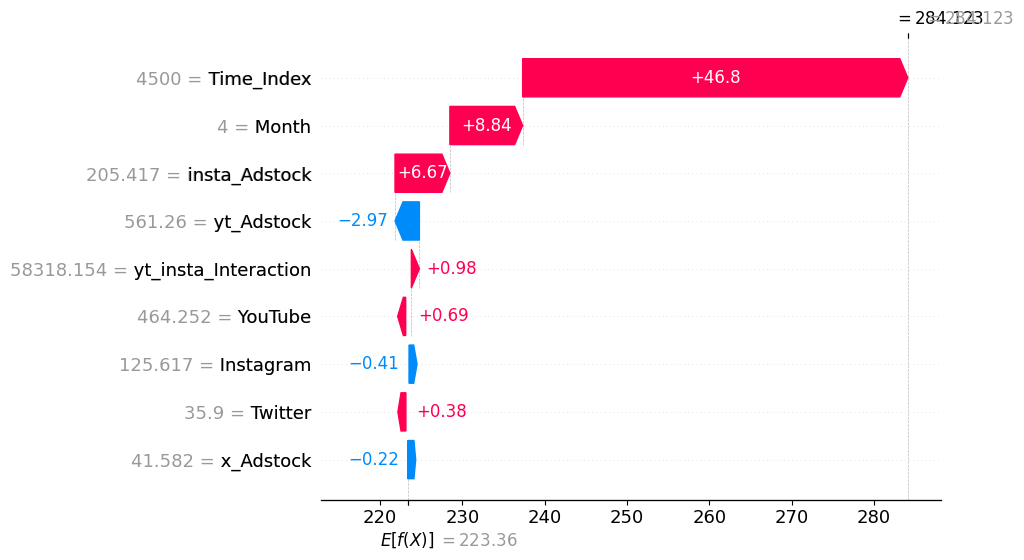
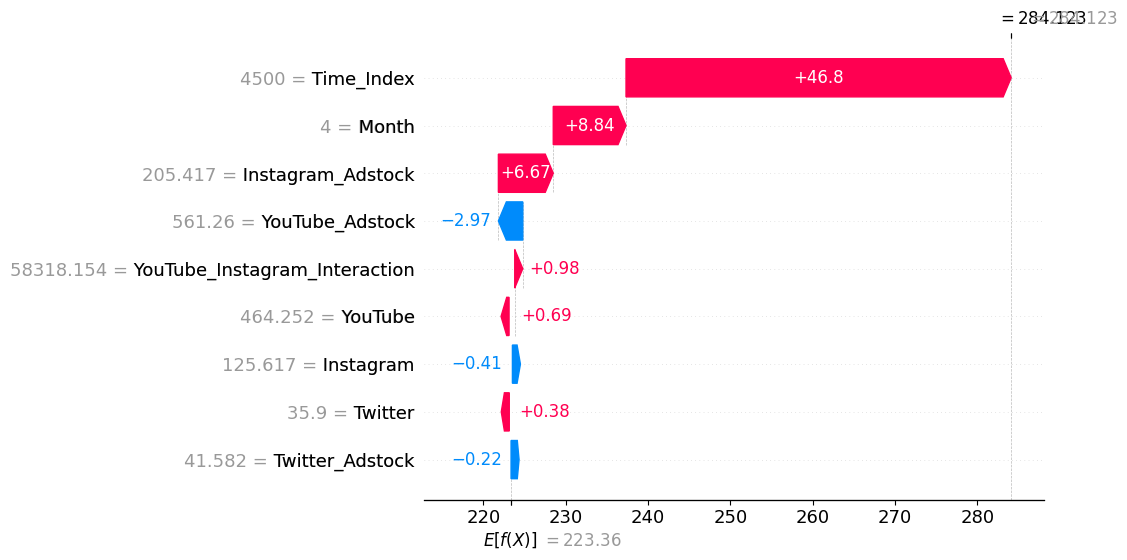
added model changes in pages under app

diff --git a/src/train.py b/src/train.py
@@ -36,11 +36,11 @@ def feature_target_split(df):
         "Instagram",
         "Twitter",
 
-        "yt_Adstock",
-        "insta_Adstock",
-        "x_Adstock",
+        "YouTube_Adstock",
+        "Instagram_Adstock",
+        "Twitter_Adstock",
 
-        "yt_insta_Interaction",
+        "YouTube_Instagram_Interaction",
 
         "Month",
         "Time_Index"